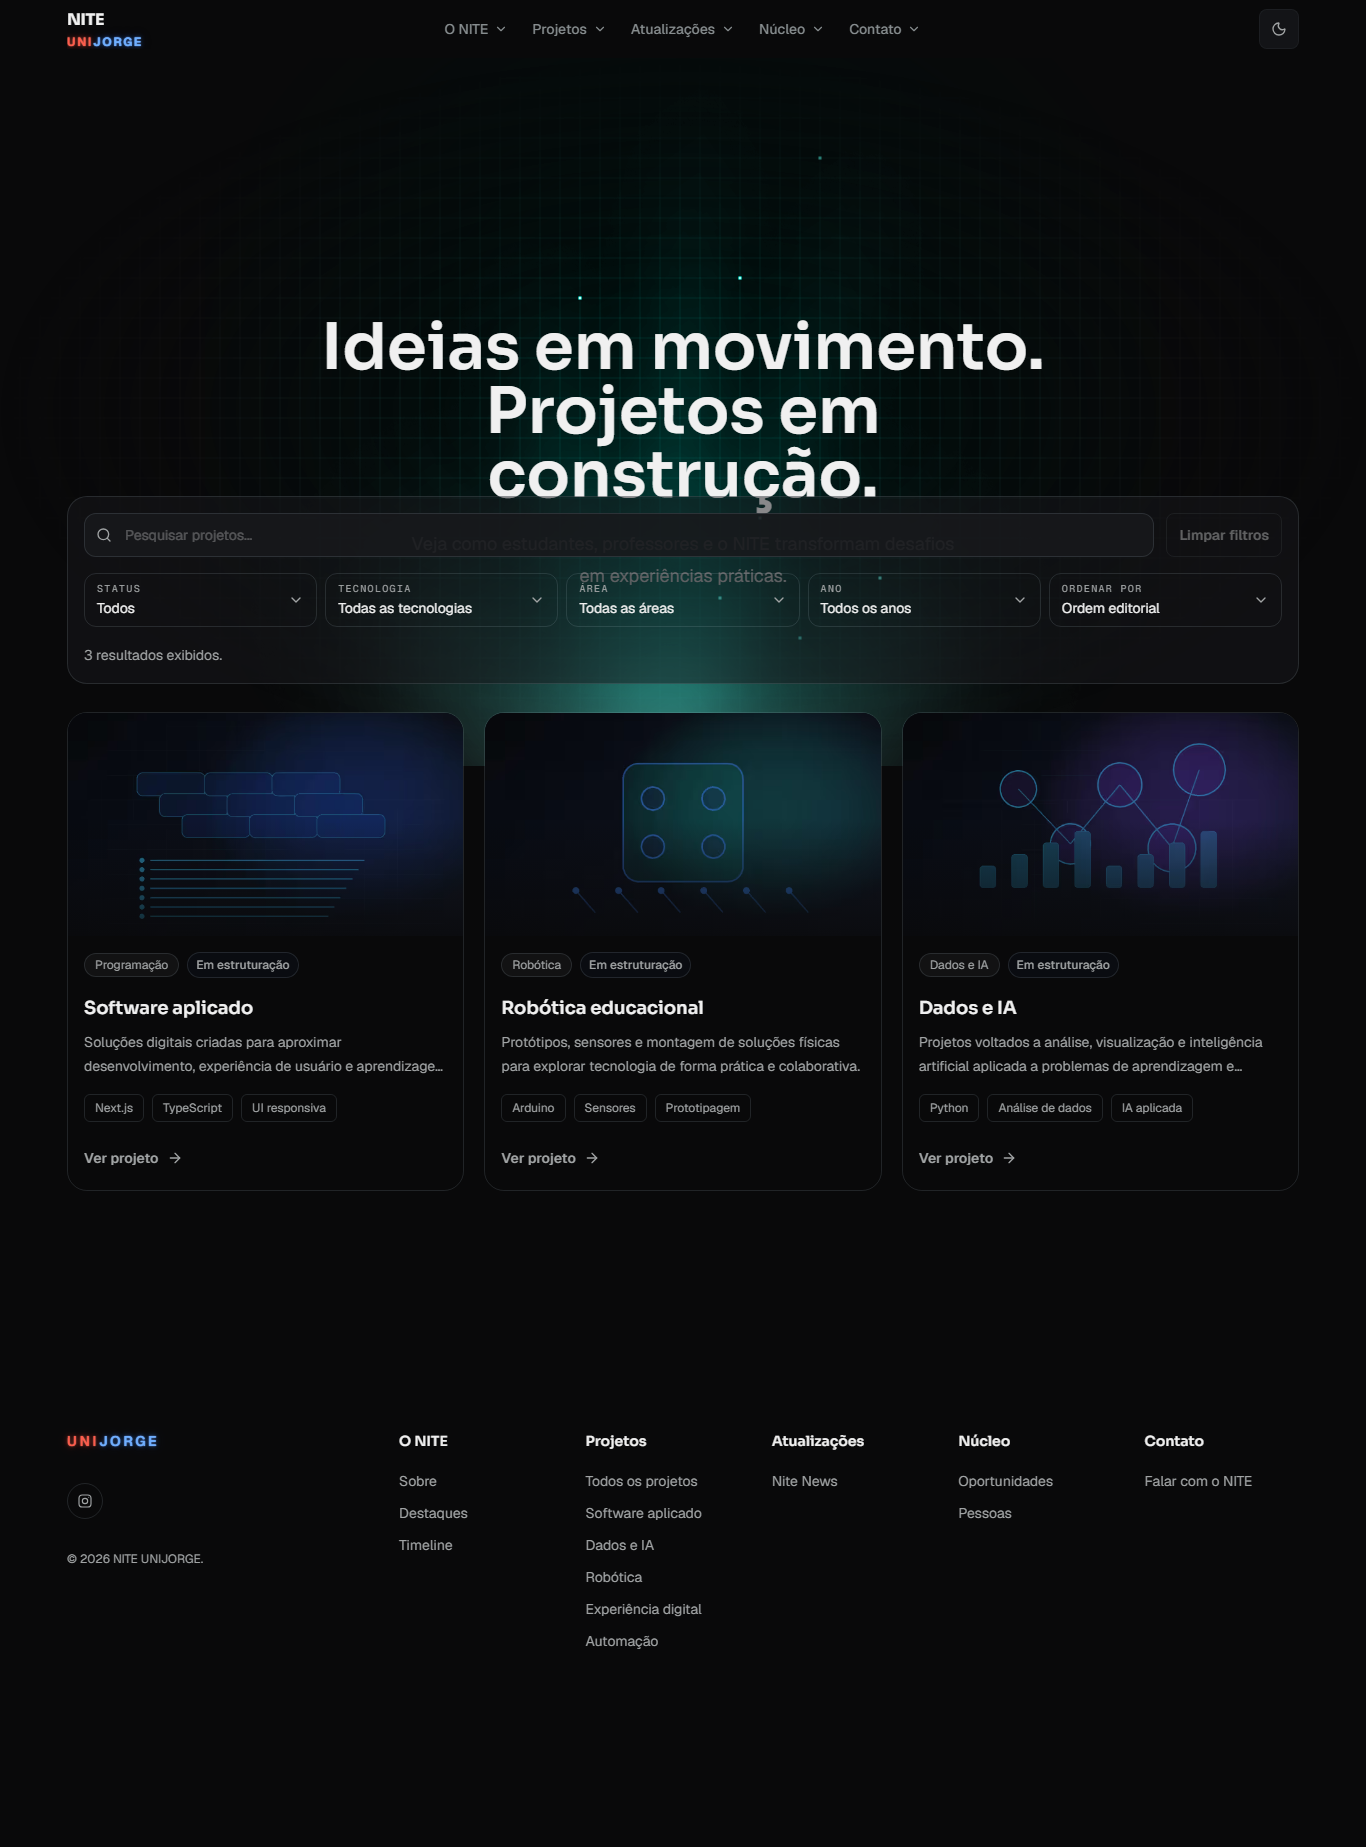
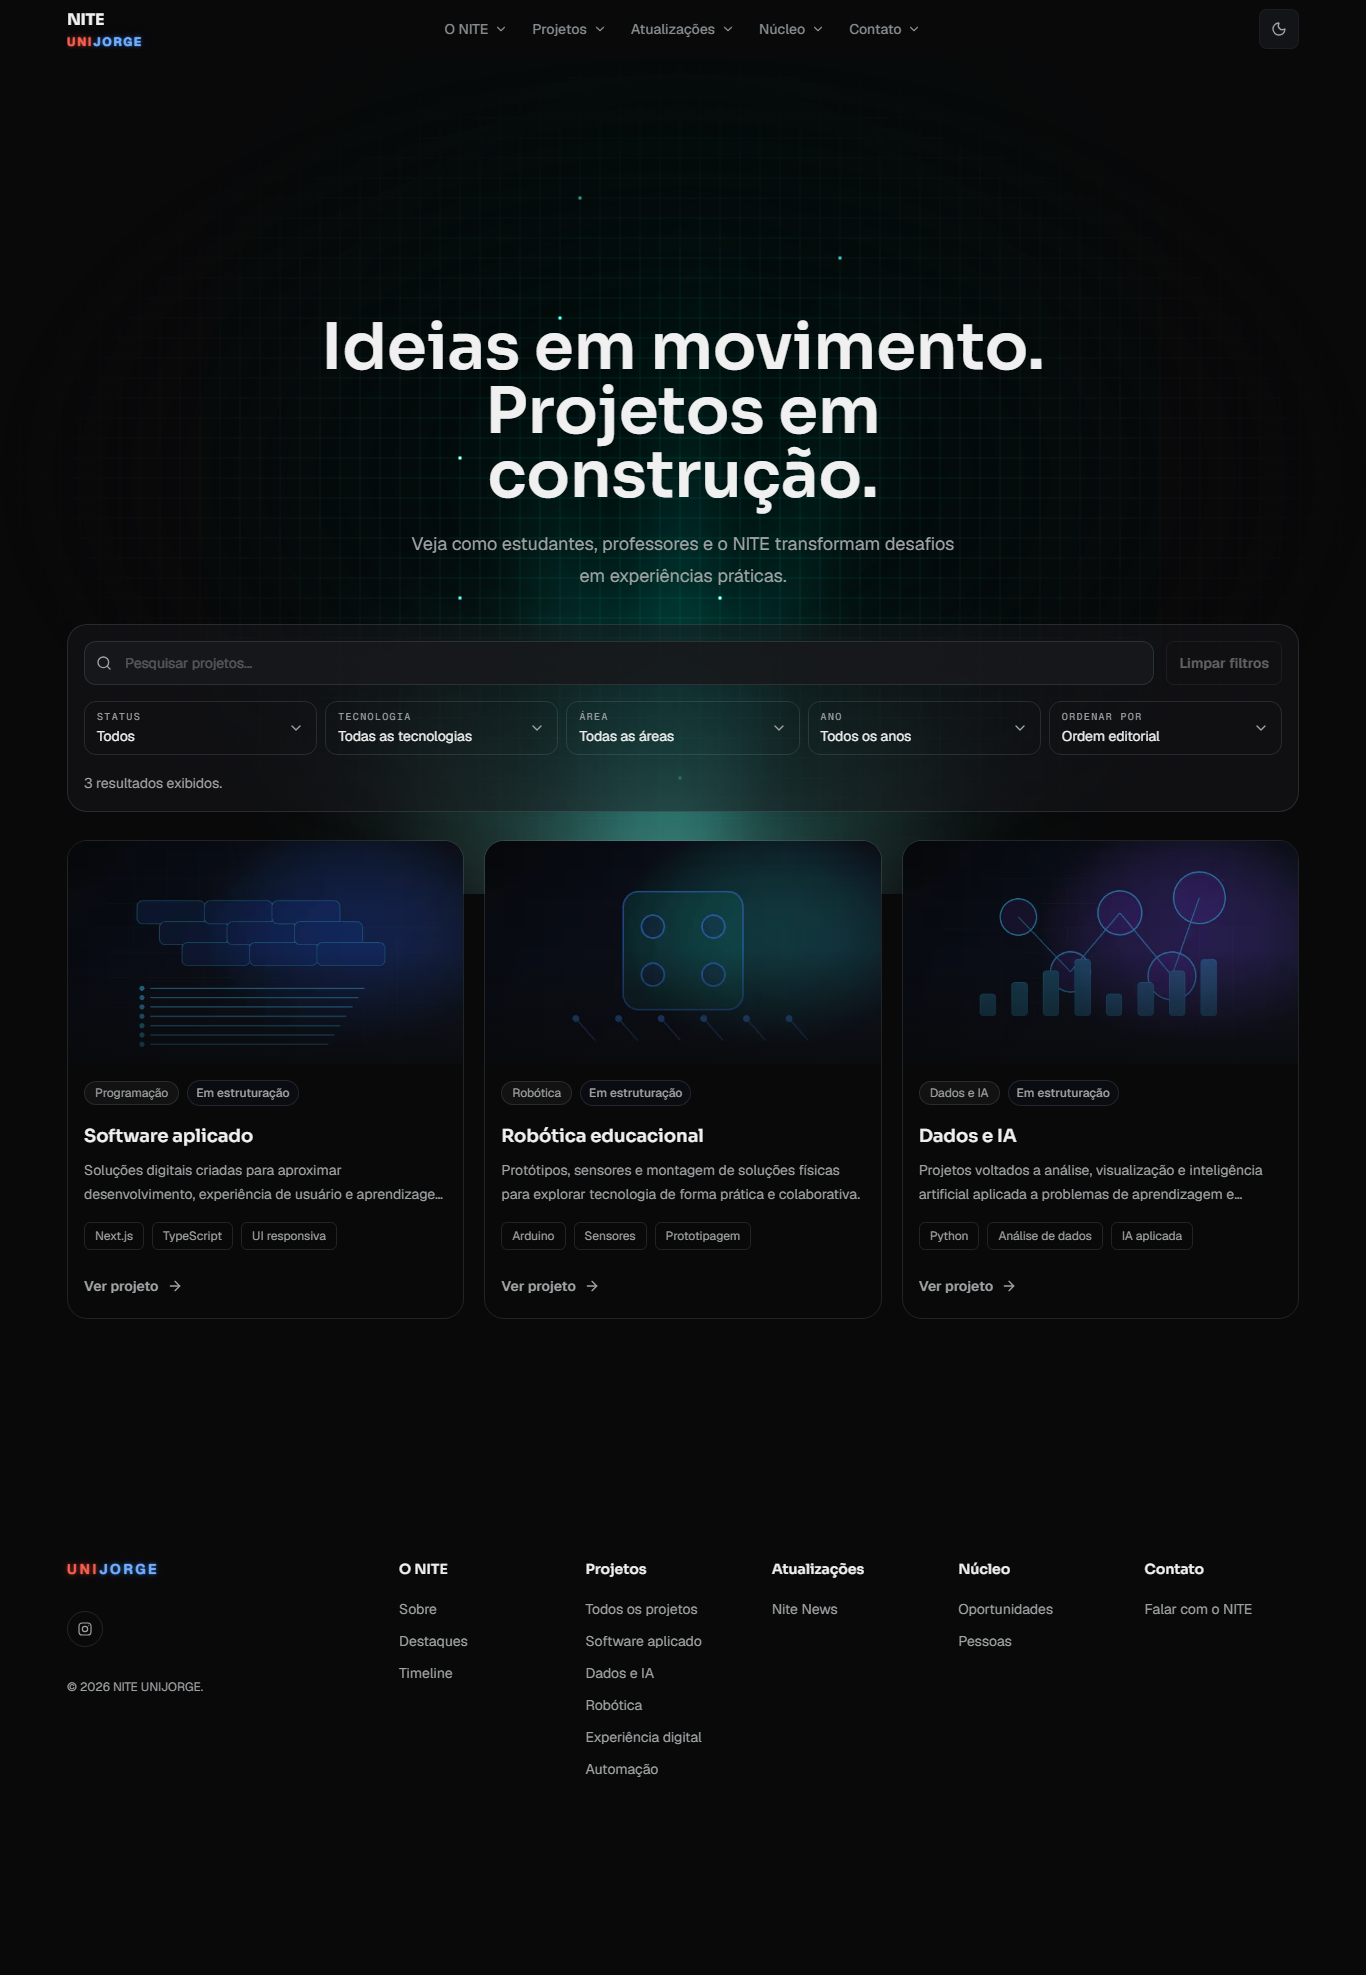
fix: evita colisão no hero de projetos

diff --git a/tests/visual/responsive-coverage.visual.spec.ts b/tests/visual/responsive-coverage.visual.spec.ts
@@ -237,6 +237,44 @@ test.describe("responsive structural route sweep", () => {
   }
 });
 
+const projectsCompactDesktopViewports = [
+  { name: "very-short-desktop", width: 1280, height: 600 },
+  { name: "short-desktop", width: 1280, height: 720 },
+  { name: "reported-desktop", width: 1280, height: 800 },
+  { name: "university-desktop", width: 1366, height: 768 },
+] as const;
+
+test.describe("projects hero compact desktop clearance", () => {
+  for (const viewport of projectsCompactDesktopViewports) {
+    test(viewport.name, async ({ page }) => {
+      await openResponsivePage(page, "/projetos", viewport);
+
+      const measurements = await page.evaluate(() => {
+        const description = document.querySelector<HTMLElement>(
+          '[data-testid="projects-hero-copy"] p',
+        );
+        const panel = document.querySelector<HTMLElement>(
+          '[data-testid="projects-search-panel-shell"]',
+        );
+
+        if (!description || !panel) {
+          throw new Error("Projects hero clearance contract not found.");
+        }
+
+        return {
+          descriptionBottom: description.getBoundingClientRect().bottom,
+          panelTop: panel.getBoundingClientRect().top,
+        };
+      });
+
+      expect(
+        measurements.panelTop - measurements.descriptionBottom,
+        "clearance between hero description and filter panel",
+      ).toBeGreaterThanOrEqual(24);
+    });
+  }
+});
+
 const visualCases = [
   {
     route: "/sobre",

diff --git a/app/projetos/page.tsx b/app/projetos/page.tsx
@@ -59,7 +59,7 @@ export default function ProjectsPage() {
           className="projectsPage relative isolate overflow-hidden bg-nite-background text-nite-text-primary"
           data-projects-page=""
         >
-          <div className="relative mt-0 flex h-[90vh] min-h-[34rem] w-full max-w-full flex-col items-center justify-center overflow-hidden pt-16 md:h-[calc(100vh-3.75rem)] md:min-h-0">
+          <div className="relative mt-0 flex h-[90vh] min-h-[34rem] w-full max-w-full flex-col items-center justify-center overflow-hidden pt-16 md:h-[calc(100vh-3.75rem)] md:min-h-[52.25rem]">
             <ProjectsPatternGridTrail
               className="z-0"
               backgroundColor="var(--projects-hero-canvas-background)"